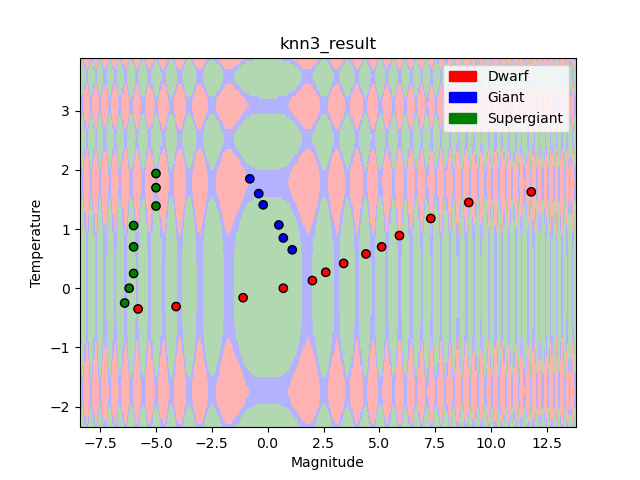
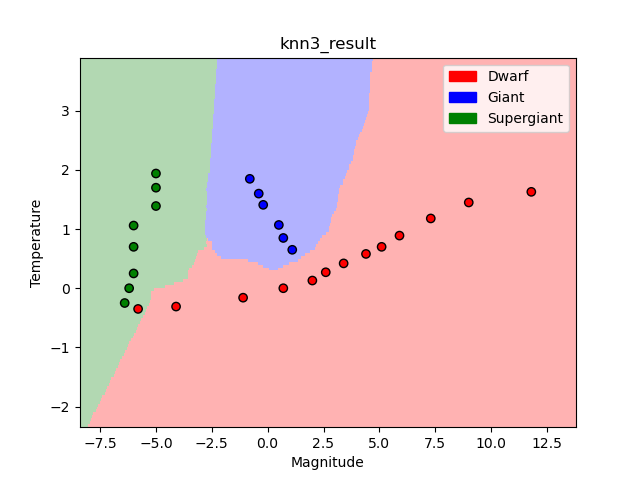
knn

diff --git a/hw2/T2_P3_KNNModel.py b/hw2/T2_P3_KNNModel.py
@@ -1,3 +1,4 @@
+from typing import List
 import numpy as np
 
 # Please implement the predict() method of this class
@@ -22,11 +23,26 @@ class KNNModel:
         # just so that the distribution code is runnable and produces a
         # (currently meaningless) visualization.
         preds = []
-        for x in X_pred:
-            z = np.cos(x ** 2).sum()
-            preds.append(1 + np.sign(z) * (np.abs(z) > 0.3))
+        for x_pre in X_pred:
+            dists = []
+            for xi, yi in zip(self.X, self.y):
+                tmp = self.dist(xi, x_pre)
+                dists.append((yi, tmp))
+            dists = sorted(dists, key= lambda tuple: tuple[1])
+            y_pre = self.choose_y(dists)
+            preds.append(y_pre)
+
         return np.array(preds)
 
+    def choose_y(self, dists):
+        y_list = []
+        for i in range(self.K):
+            y_list.append(dists[i][0])
+        y = max(set(y_list), key=y_list.count)
+        return y
+
+    def dist(self, x1, x2):
+        return np.sqrt(((x1[0] - x2[0]) / 3)**2 + (x1[1] - x2[1])**2)
     # In KNN, "fitting" can be as simple as storing the data, so this has been written for you
     # If you'd like to add some preprocessing here without changing the inputs, feel free,
     # but it is completely optional.
